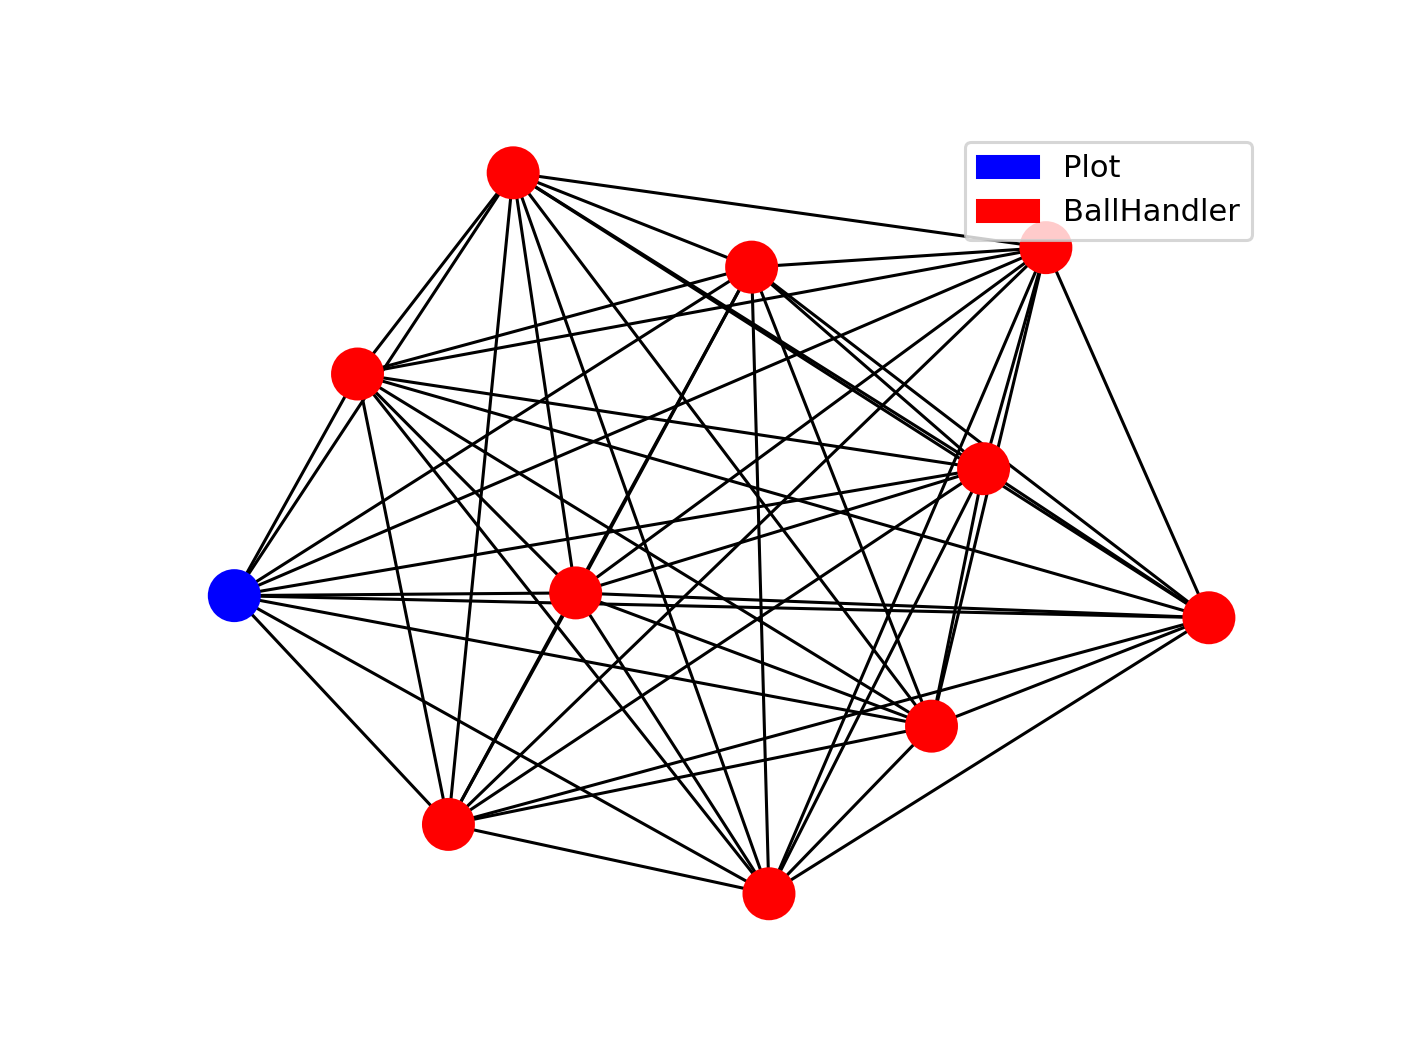
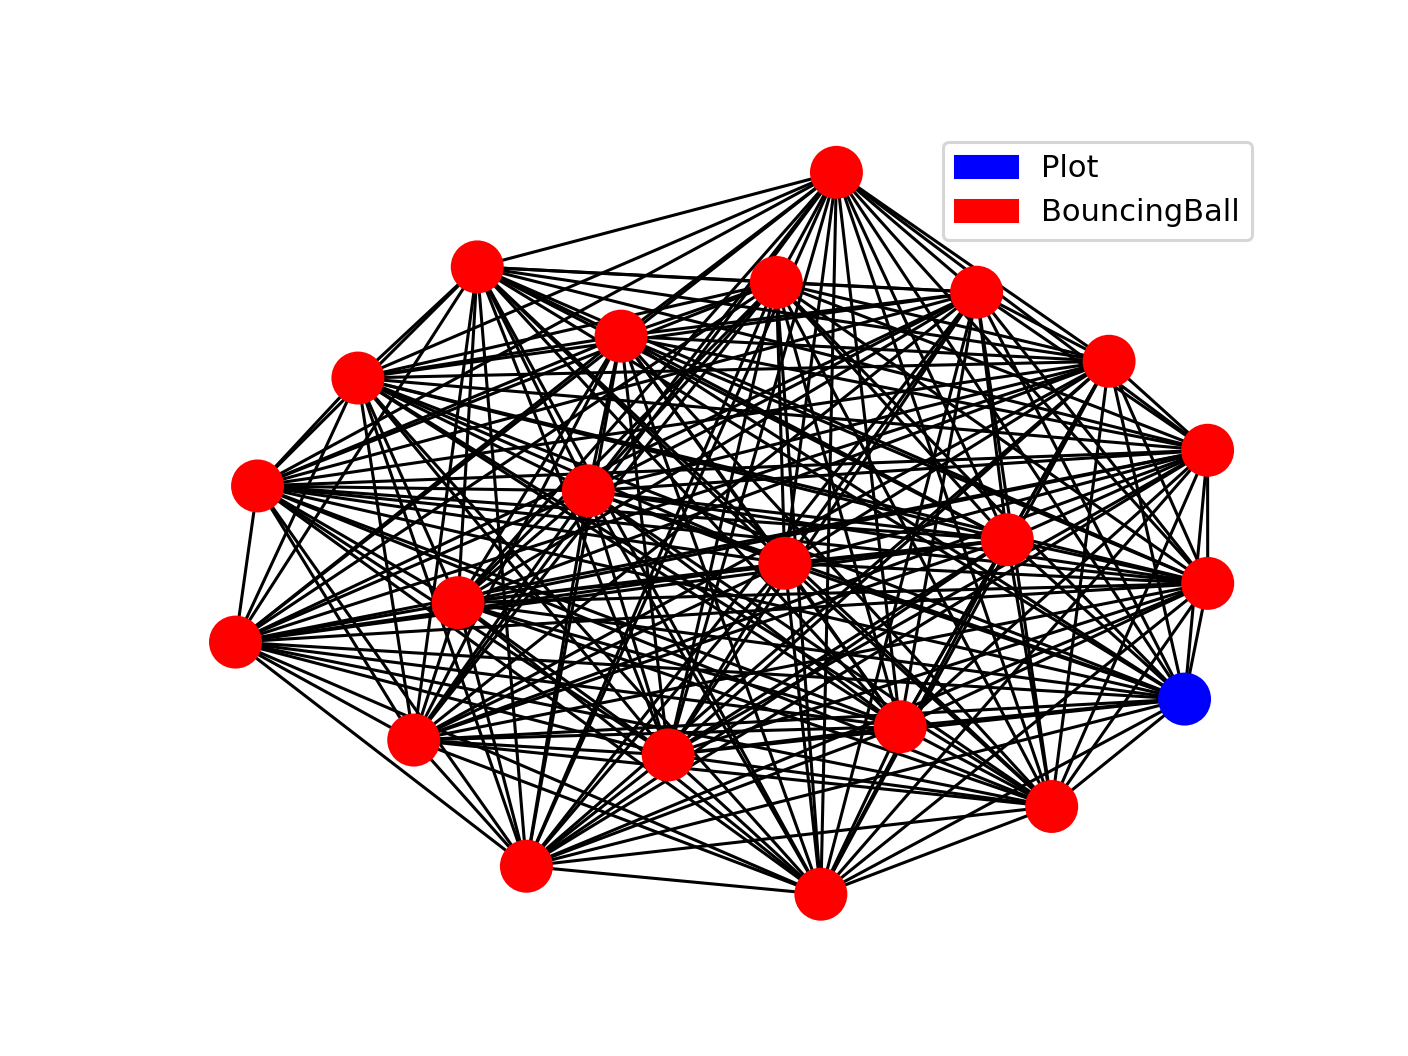
Added initial attempt at an ideal gas simulator. The bouncing ball physics is used to represent particles of gas

Changed region(s): [[0.125, 0.125, 0.875, 0.875]]

diff --git a/ideal_gas_simulator.py b/ideal_gas_simulator.py
@@ -1,0 +1,287 @@
+import os, time, datetime, threading, random, sys
+import numpy as np
+from cortix.src.module import Module
+from cortix.src.port import Port
+from cortix.src.cortix_main import Cortix
+import shapely.geometry as geo
+import shapely.ops
+import matplotlib.pyplot as plt
+import matplotlib.animation as animation
+import pandas as pd
+
+class BallHandler(Module):
+    def __init__(self,shape=None, balls= 5, runtime=3):
+        super().__init__()
+        self.shape = shape
+        self.balls = balls
+        self.runtime = runtime
+        self.local_balls = []
+        self.local_messengers = []
+        self.collisions = 0
+        self.timestamp=str(datetime.datetime.now())
+        for i in range(self.balls):
+            ball = BouncingBall(self.shape)
+            self.local_balls.append(ball)
+            self.local_messengers.append(ball.messenger)
+    def run(self):
+        t = 0.01
+        self.elapsed, oe = 0,0
+        its = round(self.runtime/t)
+        ball_list = []
+        
+        for messenger in self.local_messengers:
+            ball_list.append(messenger)
+        for i in self.ports: #Send initial properties
+            if 'plot' not in str(i):
+                self.send(self.local_messengers,i)
+        
+        for i in self.ports:
+            if 'plot' not in str(i):
+                ex_balls = self.recv(i)
+                for ball in ex_balls:
+                    ball_list.append(ball)
+        
+        for i in range(its):
+            for ball in self.local_balls:
+                collision = ball.run(ball_list)
+                self.collisions+=collision
+                
+            for i in self.ports: #Send and receive messages for each timestep
+                if 'plot' in str(i): #Not receiving messages from plotting
+                    continue
+                self.send(self.local_messengers,i)
+            ball_list = [f for f in self.local_messengers]   
+            for i in self.ports:
+                if 'plot' in str(i): #Not receiving messages from plotting
+                    continue
+                messengerlis = self.recv(i)
+                for messenger in messengerlis:
+                    ball_list.append(messenger)
+                
+            for ball in self.local_balls:
+                ball.messenger.collision = []
+
+        for i in self.ports: #Send 'done' string to plot module as end condition
+            if 'plot' in str(i):
+                self.send(self.collisions,i)
+        print('Done')
+
+class Plot(Module):
+    def __init__(self,number, modules=5,runtime=None):
+        super().__init__()
+        self.runtime=runtime
+        self.filetime = str(datetime.datetime.now())[:10]
+        self.dir = '/tmp/bb'
+        self.number=number
+        if not os.path.exists(self.dir):
+            os.makedirs(self.dir)
+        self.filename = 'ideal_gas_simulation.csv'
+        self.timestamp=str(datetime.datetime.now())
+        self.collisions = 0
+
+    def run(self):
+        print('start plot')
+        self.dic = {}
+        
+        for i in self.ports:
+            if not 'plot' in str(i):
+                continue
+            collisions = self.recv(i)
+            self.collisions += collisions
+        self.collisions = self.collisions/self.runtime
+        print('There has been:', self.collisions,'Collisions per second')
+        with open(self.filename,'a') as file:
+            file.write('{}, {}\n'.format(self.number,self.collisions))
+##        df = pd.read_csv(self.filename,index_col=False)
+##        fig = plt.Figure()
+##        ax = fig.add_subplot(111)   
+##        ax.plot(df['Number'],df['Collisions/Sec'])
+##        ax.set_title('Ideel Gas Simulation')
+##        ax.set_xlabel('Number of Particles')
+##        ax.set_ylabel('Collisions per Second')
+##        fig.savefig('Ideal_gas_test.png')
+        return
+
+class BouncingBall:
+    def __init__(self,shape):
+        super().__init__()
+        self.shape = shape
+
+        self.bndry = []
+        coords = list(self.shape.exterior.coords)
+        #Parse the box(LineRing) to create a list of line obstacles
+        for c,f in enumerate(coords):
+            try:
+                cr = geo.LineString([coords[c],coords[c+1]])
+            except IndexError:
+                cr = geo.LineString([coords[c],coords[-1]])
+                break
+            
+            self.bndry.append(cr)
+        bn = self.shape.bounds
+        self.r=1.0
+        for i in range(100): #Attempt to spawn ball within boundary
+            self.p0 = [random.uniform(bn[0],bn[2]),random.uniform(bn[1],bn[3])]
+            self.pnt = geo.point.Point(self.p0[0],self.p0[1])
+            self.circle = self.pnt.buffer(self.r)
+            if self.shape.contains(self.circle):
+                break
+        self.v0 = [random.uniform(-50,50),random.uniform(-30,30)]
+        self.cor = 1.0
+        self.a = (0,-9.81)
+        self.m = 1
+        self.KE = 0.5*self.m*((self.v0[0]**2+self.v0[1]**2)**0.5)**2
+        self.timestamp=str(datetime.datetime.now())
+        time.sleep(0.05)
+        self.name = str(datetime.datetime.now())
+        
+        #Customize container class that is sent to other modules
+        self.messenger = Messenger()
+        self.messenger.circle = self.circle
+        self.messenger.timestamp = self.timestamp
+        self.messenger.m,self.messenger.r = 1,1
+        self.messenger.v = self.v0
+        self.messenger.p = self.p0
+        self.messenger.name = self.name
+        
+    def run(self, ball_list):
+        self.ball_list = ball_list
+        self.collisions=0
+        t = 0.01
+
+        
+        #Gravity calculations for timestep
+        self.p0[1] = 0.5*self.a[1]*t**2+self.v0[1]*t+self.p0[1]
+        self.p0[0] = 0.5*self.a[0]*t**2+self.v0[0]*t+self.p0[0]
+        self.v0[1] = self.a[1]*t + self.v0[1]
+        self.v0[0] = self.a[0]*t + self.v0[0]
+        
+        #Update position and velocity variables
+        self.pnt = geo.point.Point(self.p0[0],self.p0[1])
+        self.circle = self.pnt.buffer(self.r)
+        self.messenger.v = self.v0
+        
+        for shape in self.bndry: #Detects collision with boundary
+            if self.circle.crosses(shape) or self.circle.touches(shape) or self.circle.intersects(shape):
+                self.wall_collision(shape)
+        for ball in self.ball_list: #Detects collision with other objects
+            #ball is Messenger class object
+            shape = ball.circle
+            name = ball.name
+            if self.name==ball.name:
+                continue
+            for line in ball.collision: #Undetected Collisions received as a message
+                if self.name == line:
+                    self.ball_collision(ball)
+                    if self.circle.crosses(shape) or self.circle.touches(shape) or self.circle.intersects(shape):
+                        self.ball_shift(shape)
+            #Reacts to intersection between this object and another
+            if self.circle.crosses(shape) or self.circle.touches(shape) or self.circle.intersects(shape):
+                self.ball_collision(ball)
+                self.ball_shift(shape)
+                self.messenger.collision.append(name)
+
+        self.messenger.circle = self.circle
+        self.messenger.p = self.p0
+        
+        self.messenger.collision = [] #Reset list of collisions
+
+        return self.collisions
+
+    def wall_collision(self,shape):
+        p1,p2 = shapely.ops.nearest_points(self.pnt,shape)
+        angle3 = np.arctan2(p2.y - p1.y, p2.x - p1.x)
+        d = shape.distance(self.pnt)
+        self.p0 = [self.p0[0]-(self.r-d)*np.cos(angle3), self.p0[1]-(self.r-d)*np.sin(angle3)]
+        self.circle = self.pnt.buffer(self.r)
+        
+        angle2 = np.arctan2(self.v0[1], self.v0[0])
+        v = (self.v0[0]**2+self.v0[1]**2)**0.5
+        theta = angle2-angle3
+        vbi, vbj = v*np.sin(theta), v*np.cos(theta)
+        vbj = -vbj *self.cor
+        v = (vbi**2+vbj**2)**0.5
+        angle4 = np.arctan2(vbj, vbi)
+        angle1 = angle4 - angle3
+        self.collisions+=1
+        self.v0 = [np.sin(angle1)*v, np.cos(angle1)*v]
+    def ball_shift(self,shape):
+        p1,p2 = shapely.ops.nearest_points(self.pnt,shape)
+        angle = np.arctan2(p2.y - p1.y, p2.x - p1.x)
+        d = shape.distance(self.pnt)
+        self.p0 = [self.p0[0]-(self.r*1.01-d)*np.cos(angle),self.p0[1]-(self.r*1.01-d)*np.sin(angle)]
+        self.pnt = geo.point.Point(self.p0[0],self.p0[1])
+        self.circle = self.pnt.buffer(self.r)
+        
+    def ball_collision(self,messenger):
+        shape = messenger.circle
+        v2,m = messenger.v,messenger.m
+        v3 = (v2[0]**2+v2[1]**2)**0.5
+        phi = np.arctan2(v2[1],v2[0])
+        p1,p2 = shapely.ops.nearest_points(self.pnt,shape)
+        angle = np.arctan2(p2.y - p1.y, p2.x - p1.x) 
+        angle2 = np.arctan2(self.v0[1], self.v0[0])
+        v = (self.v0[0]**2+self.v0[1]**2)**0.5
+        
+        #Equation source: https://en.wikipedia.org/wiki/Elastic_collision
+        vpx=((v*np.cos(angle2-angle)*(self.m-m)+2*m*v3*np.cos(phi-angle))/(self.m+m))*np.cos(angle)+v*np.sin(angle2-angle)*np.cos(angle+np.pi/2)
+        vpy=((v*np.cos(angle2-angle)*(self.m-m)+2*m*v3*np.cos(phi-angle))/(self.m+m))*np.sin(angle)+v*np.sin(angle2-angle)*np.sin(angle+np.pi/2)
+        vp = (vpx**2+vpy**2)**0.5
+        self.v0 = [vpx,vpy]
+
+class Messenger:
+    def __init__(self, circle=None, collision = [], timestamp='0'):
+        self.circle = circle
+        self.collision = collision
+        self.timestamp = timestamp
+        self.m = 1
+        self.r = 1
+        self.v = []
+        self.p = []
+        self.name = ''
+
+
+        
+class Simulation:
+    def __init__(self):
+##        self.filename = 'ideal_gas_simulation.csv'
+##        if os.path.isfile(self.filename):
+##            print('file exits')    
+##        with open(self.filename,'w') as file:
+##            file.write('Number,Collisions/Sec\n')
+                       
+                       
+        n_list = [1000,3000,15,30,45,60,75,500,600,1200,2400,3200,4200,5400]
+        for i in n_list:
+            print('starting:',i,'balls')
+            procs = 15
+            runtime=0.5
+            balls = int(i/procs)
+            cortix = Cortix(use_mpi=False)
+            mod_list = []
+            shape = geo.box(-30,0,30,50)
+            
+            plot = Plot(number=i, modules=10,runtime=runtime)
+            cortix.add_module(plot)
+
+            for i in range(procs):
+                time.sleep(0.01)
+                app = BallHandler(shape, balls=balls,runtime = runtime)
+                app.v0 = [40,40]
+                app.r = 0.1
+                mod_list.append(app)
+                cortix.add_module(app)
+                
+            for c,i in enumerate(mod_list):
+                i.connect('plot-send{}'.format(c),plot.get_port('plot-receive{}'.format(c)))
+                for j in mod_list:
+                    if i == j:
+                        continue
+                    name = '{}{}'.format(i.timestamp,j.timestamp)
+                    name2 = '{}{}'.format(j.timestamp,i.timestamp)
+                    j.connect(name, i.get_port(name2))
+                    
+            cortix.run()
+        
+if __name__ == '__main__':
+    Simulation()
